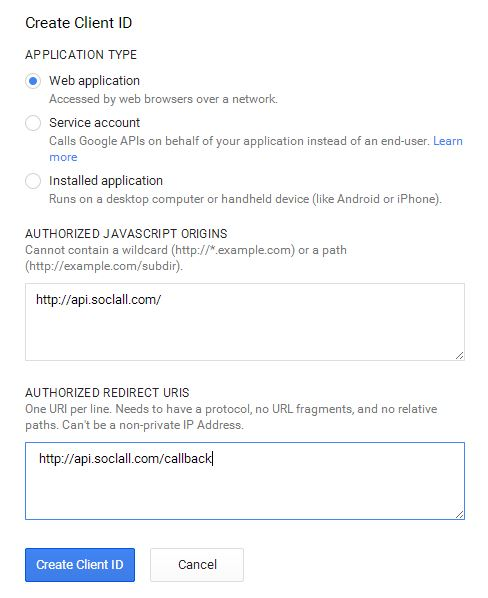
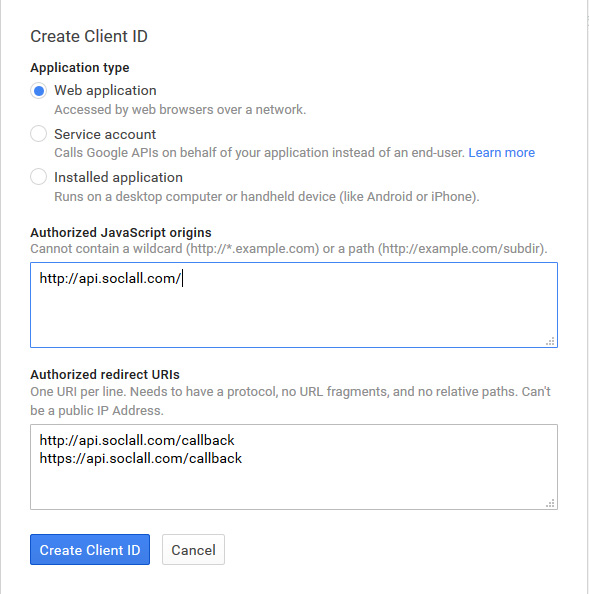
Task #58 - update url callback of facebook, twitter, linkedin, google

diff --git a/docs/user-guide/linkedin.md b/docs/user-guide/linkedin.md
@@ -5,7 +5,7 @@ __To register an application on LinkedIn, please follow the steps below:__
     ![Linkedin : List App](/img/linkedin-1-list-app.JPG)
     <div class="soclall-br"></div>
 2. Press button "Add New Application" and fill the application form with the below information
-    * Website URL: __http://soclall.com/__
+    * Website URL: __https://soclall.com/__
 3. Then, check to agreement checkbox and press button "Submit".
     <div class="soclall-br"></div>
     ![Linkedin : Create App Form](/img/linkedin-2-create-app-form.jpg)
@@ -15,12 +15,13 @@ __To register an application on LinkedIn, please follow the steps below:__
     * r_basicprofile: if you want to use "SoclAll Login"
     * r_emailaddress: if you want to use "SoclAll Invite"
     * w_share: if you want to use "SoclAll Posting"
-6. In session "OAuth 2.0", fill "Authorized Redirect URLs" field: __http://api.soclall.com/callback__ and press button "Update".
+6. In session "OAuth 2.0", fill "Authorized Redirect URLs" field: __http://api.soclall.com/callback__ and press button "Add". Then, re-fill: __https://api.soclall.com/callback__ and press button "Add".
     <div class="soclall-br"></div>
     ![Linkedin : Authentication Page](/img/linkedin-3-authentication-page.jpg)
     <div class="soclall-br"></div> 
-7. Select menu "Settings", change "Application Status" to __Live__ and press button "Update".
+7. After all, press button "Update".
+8. Select menu "Settings", change "Application Status" to __Live__ and press button "Update".
     <div class="soclall-br"></div>
     ![Linkedin : Settings Page](/img/linkedin-4-settings-page.jpg)
     <div class="soclall-br"></div>    
-8. In "Authentication" page, you can get the "Client ID" and "Client Secret" to fill SoclAll LinkedIn Settings form.
+9. In "Authentication" page, you can get the "Client ID" and "Client Secret" to fill SoclAll LinkedIn Settings form.

diff --git a/docs/user-guide/twitter.md b/docs/user-guide/twitter.md
@@ -2,8 +2,8 @@ __To register an application on Twitter, please follow the steps below:__
 
 1. Login to [Twitter](https://www.twitter.com/) and go to Page [Twitter App](http://apps.twitter.com/) to create application.
 2. Press button "Create New App" and then fill the application form with the below information
-    * Website: __http://api.soclall.com/__
-    * Callback URL: __http://api.soclall.com/callback__
+    * Website: __https://api.soclall.com/__
+    * Callback URL: __https://api.soclall.com/callback__
 3. Then check to agreement checkbox and press button "Create your Twitter application"
     <div class="soclall-br"></div>
     ![Twitter : Create App Form](/img/twitter-1-create-app-form.jpg)

diff --git a/docs/user-guide/google.md b/docs/user-guide/google.md
@@ -12,7 +12,7 @@ __To register an application on Google PLus, please follow the steps below:__
 4. After that, select menu "Credentials", press button "Create new Client ID" and fill the form with the below information
     * Application Type: select "Web application"
     * Authorized Javascript Origins: __http://api.soclall.com/__
-    * Authorized Redirect Uris: __http://api.soclall.com/callback__
+    * Authorized Redirect Uris: __http://api.soclall.com/callback__, press "Enter" key and re-fill: __https://api.soclall.com/callback__
 5. Then press button "Create Client ID".
     <div class="soclall-br"></div>
     ![Google : Credentials](/img/google-4-credentials.JPG)

diff --git a/docs/user-guide/facebook.md b/docs/user-guide/facebook.md
@@ -13,7 +13,7 @@ __To register an application on Facebook, please follow all steps below:__
 5. Select menu "Settings", then press button "+ Add Platform" and fill the information below:
     * App Domains: __api.soclall.com__
     * Contact Email: __(your email)__
-    * Site URL: __http://api.soclall.com/callback__  
+    * Site URL: __https://api.soclall.com/callback__  
 
     ![Facebook : Setting Page](/img/facebook-3-setting-page.JPG)
     <div class="soclall-br"></div>
